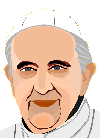
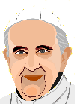
Fix pope speed bugs

diff --git a/candisquasho.rb b/candisquasho.rb
@@ -14,12 +14,12 @@ class CandiSquasho < Gosu::Window
     @velocity_y = 5
     @visible = 0
     @pope_image= Gosu::Image.new('edited_pope_francis.png')
-    @x_2 = 200
-    @y_2 = 200
-    @width_2 = 50
-    @height_2 = 43
-    @velocity_x_2 = 5
-    @velocity_y_2 = 5
+    @x_2 = 125
+    @y_2 = 125
+    @width_2 = 40
+    @height_2 = 40
+    @velocity_x_2 = 4
+    @velocity_y_2 = 4
     @visible_2 = 0
     @poop_image = Gosu::Image.new('edited_unicorn_poop.png')
     @hit = 0  
@@ -44,7 +44,7 @@ end
       @velocity_x_2 *= -1 if @x_2 + @width_2/2 > 800 || @x_2 - @width_2 / 2 < 0
       @velocity_y_2 *= -1 if @y_2 + @height_2/2 > 600 || @y_2 - @height_2 / 2 < 0
       @visible = 75 if @visible < -10 and rand < 0.01
-      @visible_2 = 30 if @visible_2 < -10 and rand < 0.01
+      @visible_2 = 90 if @visible_2 < -10 and rand < 0.01
     end
   end
   def button_down(id)
@@ -62,6 +62,7 @@ end
       if (id == Gosu::KbSpace)
         @playing = true
         @visible = -10
+        @visible_2 = -8
         @start_time = Gosu.milliseconds
         @score = 0
       end
@@ -72,8 +73,8 @@ end
     if @visible > 0
       @image.draw(@x - @width / 2, @y - @height / 2, 1)
     end
-    if @visible > 0
-      @pope_image.draw(@x_2 - @width / 2, @y_2 - @height / 2, 1)
+    if @visible_2 > 0
+      @pope_image.draw(@x_2 - @width / 2, @y_2 - @height_2 / 2, 1)
     end
     @poop_image.draw(mouse_x - 40, mouse_y - 10, 1)
     if @hit == 0
@@ -91,6 +92,7 @@ end
        @font.draw('Game Over', 300, 300, 3)
        @font.draw('Press the Space Bar to Play Again', 175, 350, 3)
        @visible = 20
+       @visible_2 = 20
     end
   end
 end
